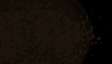
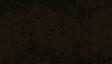
ui for menu in dungeon and hero skills

Changed region(s): [[0.6964, 0.0, 1.0, 1.0], [0.9911, 0.0, 1.0, 0.0625]]

diff --git a/src/components/UI/DungeonSkillsMenu/DungeonSkillsMenu.vue b/src/components/UI/DungeonSkillsMenu/DungeonSkillsMenu.vue
@@ -1,0 +1,200 @@
+<template>
+  <div class="dungeonUI__skillsMenuList">
+    <div class="dungeonUI__skillsMenuTabs">
+      <div class="dungeonUI__skillsMenuTabOption">
+        <span>Active Skills</span>
+      </div>
+      <div class="dungeonUI__skillsMenuTabOption">
+        <span>Pasive Skills</span>
+      </div>
+    </div>
+    <div class="dungeonUI__skillsMenuBody">
+      <div class="dungeonUI__skillsMenuItem">
+        <div class="dungeonUI__skillsMenuImg"></div>
+        <div class="dungeonUI__skillsMenuDescription">
+          <div class="dungeonUI__skillsMenuItemTitle">
+            <span>Black Fire</span>
+          </div>
+          <div class="dungeonUI__skillsMenuItemType">
+            <span>Magic Damage</span>
+          </div>
+          <div class="dungeonUI__skillsMenuItemDmg">
+            <span>10 Attk</span>
+            <span class="aff dark">Dark</span>
+            <span class="aff fire">Fire</span>
+          </div>
+        </div>
+      </div>
+      <div class="dungeonUI__skillsMenuItem --active">
+        <div class="dungeonUI__skillsMenuImg"></div>
+        <div class="dungeonUI__skillsMenuDescription">
+          <div class="dungeonUI__skillsMenuItemTitle">
+            <span>Black Fire</span>
+          </div>
+          <div class="dungeonUI__skillsMenuItemType">
+            <span>Magic Damage</span>
+          </div>
+          <div class="dungeonUI__skillsMenuItemDmg">
+            <span>10 Attk</span>
+            <span class="aff dark">Dark</span>
+            <span class="aff fire">Fire</span>
+          </div>
+        </div>
+      </div>
+      <div class="dungeonUI__skillsMenuItem">
+        <div class="dungeonUI__skillsMenuImg"></div>
+        <div class="dungeonUI__skillsMenuDescription">
+          <div class="dungeonUI__skillsMenuItemTitle">
+            <span>Black Fire</span>
+          </div>
+          <div class="dungeonUI__skillsMenuItemType">
+            <span>Magic Damage</span>
+          </div>
+          <div class="dungeonUI__skillsMenuItemDmg">
+            <span>10 Attk</span>
+            <span class="aff dark">Dark</span>
+            <span class="aff fire">Fire</span>
+          </div>
+        </div>
+      </div>
+      <div class="dungeonUI__skillsMenuItem">
+        <div class="dungeonUI__skillsMenuImg"></div>
+        <div class="dungeonUI__skillsMenuDescription">
+          <div class="dungeonUI__skillsMenuItemTitle">
+            <span>Black Fire</span>
+          </div>
+          <div class="dungeonUI__skillsMenuItemType">
+            <span>Magic Damage</span>
+          </div>
+          <div class="dungeonUI__skillsMenuItemDmg">
+            <span>10 Attk</span>
+            <span class="aff dark">Dark</span>
+            <span class="aff fire">Fire</span>
+          </div>
+        </div>
+      </div>
+      <div class="dungeonUI__skillsMenuItem">
+        <div class="dungeonUI__skillsMenuImg"></div>
+        <div class="dungeonUI__skillsMenuDescription">
+          <div class="dungeonUI__skillsMenuItemTitle">
+            <span>Black Fire</span>
+          </div>
+          <div class="dungeonUI__skillsMenuItemType">
+            <span>Magic Damage</span>
+          </div>
+          <div class="dungeonUI__skillsMenuItemDmg">
+            <span>10 Attk</span>
+            <span class="aff dark">Dark</span>
+            <span class="aff fire">Fire</span>
+          </div>
+        </div>
+      </div>
+      <div class="dungeonUI__skillsMenuItem">
+        <div class="dungeonUI__skillsMenuImg"></div>
+        <div class="dungeonUI__skillsMenuDescription">
+          <div class="dungeonUI__skillsMenuItemTitle">
+            <span>Black Fire</span>
+          </div>
+          <div class="dungeonUI__skillsMenuItemType">
+            <span>Magic Damage</span>
+          </div>
+          <div class="dungeonUI__skillsMenuItemDmg">
+            <span>10 Attk</span>
+            <span class="aff dark">Dark</span>
+            <span class="aff fire">Fire</span>
+          </div>
+        </div>
+      </div>
+    </div>
+  </div>
+</template>
+
+<script>
+export default {
+  name: "dungeonUI__skillsMenu",
+};
+</script>
+
+<style lang="sass" scoped>
+.dungeonUI__skillsMenuList
+  position: fixed
+  top: calc(1.5 * var(--tile-cell))
+  background-image: url("../../../assets/ui/dungeonUI__skillsMenuBg.png")
+  background-size: auto 100%
+  height: calc(100% - (var(--tile-cell) * 5.5))
+  z-index: 10
+  width: 100%
+.dungeonUI__skillsMenuTabs
+  background-image: url("../../../assets/ui/dungeonUI__skillsMenuTabLeft.png")
+  background-size: 100% 100%
+  height: var(--tile-cell)
+  width: 100%
+  display: flex
+  justify-content: center
+  &.--right
+    background-image: url("../../../assets/ui/dungeonUI__skillsMenuTabRight.png")
+    .dungeonUI__skillsMenuTabOption:first-child
+      opacity: 0.35
+    .dungeonUI__skillsMenuTabOption:last-child
+      opacity: 1
+.dungeonUI__skillsMenuBody
+  height: calc(100% - var(--tile-cell))
+  background-image: url("../../../assets/ui/dungeonUI__skillsMenuBorder.png")
+  width: 100%
+  background-size: 100%
+  padding: calc(var(--tile-cell) * 0.5)
+  box-sizing: border-box
+  overflow-y: scroll
+.dungeonUI__skillsMenuTabOption
+  display: flex
+  align-items: center
+  justify-content: center
+  color: #FFF
+  flex: 1
+  &:last-child
+    opacity: 0.35
+.dungeonUI__skillsMenuItem
+  display: flex
+  color: #C4C4C4
+  min-height: calc(var(--tile-cell) * 1)
+  border-bottom: var(--pixel-unit) solid #111111
+  padding-bottom: calc(var(--tile-cell) * .25)
+  margin-bottom: calc(var(--tile-cell) * .25)
+  &.--active
+    .dungeonUI__skillsMenuImg
+      box-shadow: inset 0 0 0 var(--pixel-unit) #805a29
+  &:last-child
+    border-bottom: none
+.dungeonUI__skillsMenuItemTitle
+  font-size: 22px
+.dungeonUI__skillsMenuImg
+  height: calc(var(--tile-cell) * 1.25)
+  min-width: calc(var(--tile-cell) * 1.25)
+  box-shadow: inset 0 0 0 var(--pixel-unit) #2c261f
+  background-image: url("../../../assets/skills/blackFire.png")
+  background-size: 100% 100%
+  margin-right: calc(var(--tile-cell) * .5)
+.dungeonUI__skillsMenuItemType
+  margin: 10px 0
+.dungeonUI__skillsMenuItemDmg
+  display: flex
+  font-size: 19px
+.dungeonUI__skillsMenuDescription
+  min-height: calc(var(--tile-cell) * 1.25)
+  display: flex
+  flex-direction: column
+  justify-content: flex-start
+  box-sizing: border-box
+.aff
+  margin-left: 10px
+  &:before 
+    content: ''
+    display: inline-block
+    width: 10px
+    height: 10px
+    margin-right: 10px
+    background-color: #363433
+  &.fire
+    &:before 
+      background-color: #FB3C00
+</style>

diff --git a/src/components/UI/DungeonUI.vue b/src/components/UI/DungeonUI.vue
@@ -31,6 +31,18 @@
         <div class="dungeonUI__moreMenu"></div>
       </div>
     </div>
+    <div class="dungeonUI__menuBottom">
+      <div class="dungeonUI__menuBottomLeft">
+        <div class="dungeonUI__retreatBtn"></div>
+        <div class="dungeonUI__settingBtn"></div>
+      </div>
+      <div class="dungeonUI__menuBottomRight">
+        <div class="dungeonUI__menuBottomBtn"><span>Stats</span></div>
+        <div class="dungeonUI__menuBottomBtn"><span>Inventory</span></div>
+        <div class="dungeonUI__menuBottomBtn"><span>Quest</span></div>
+        <div class="dungeonUI__menuBottomBtn"><span>Skills</span></div>
+      </div>
+    </div> 
     <div class="dungeonUI__contentBottom">
       <skills-list></skills-list>
       <div v-if="isMonsterTarget"
@@ -38,15 +50,16 @@
            @click="attack">
       </div>
       <div class="dungeonUI__controls">
-      <div v-for="direction in arrows"
-           :key="'arrow' + direction"
-           :class="'dungeonUI__controls-' + direction"
-           @click="move(direction)"
-      >
-      </div>
+        <div v-for="direction in arrows"
+             :key="'arrow' + direction"
+             :class="'dungeonUI__controls-' + direction"
+             @click="move(direction)"
+        >
+        </div>
       </div>
     </div>
     <inventory></inventory>
+    <DungeonSkillsMenu></DungeonSkillsMenu> 
   </div>
 </template>
 
@@ -54,6 +67,7 @@
 import Inventory from './Inventory'
 import LogQuest from './LogQuest'
 import SkillsList from './Skills/SkillList'
+import DungeonSkillsMenu from './DungeonSkillsMenu/DungeonSkillsMenu'
 
 
 export default {
@@ -61,7 +75,8 @@ export default {
   components: {
     Inventory,
     LogQuest,
-    SkillsList
+    SkillsList,
+    DungeonSkillsMenu
   },
   data () {
     return {
@@ -132,11 +147,10 @@ export default {
     background-image: url("../../assets/ui/dungeonUI__more.png")
     background-size: contain
     image-rendering: pixelated
-    &:active, &:focus
-      opacity: 0.5
-      transform: translateY(2px)
     &.dungeonUI__moreMenu
       background-image: url("../../assets/ui/dungeonUI__moreDown.png")
+      &:active, &:focus, .--active
+        background-image: url("../../assets/ui/dungeonUI__moreDownActive.png")
 .dungeonUI__current
   width: calc(5.5 * var(--tile-cell))
   height: calc(1.5 * var(--tile-cell))
@@ -221,4 +235,54 @@ export default {
   bottom: calc(var(--tile-cell) * .75)
   right: var(--tile-cell)
   z-index: 1
+.dungeonUI__menuBottom
+  position: fixed
+  display: flex
+  bottom: 0
+  left: 0
+  height: calc(var(--tile-cell) * 2.5)
+  background-image: url("../../assets/ui/dungeonUI__menuBg.png")
+  background-size: 100% 100%
+  width: 100%
+  z-index: 10
+.dungeonUI__menuBottomLeft
+  display: flex
+  height: 100%
+  flex-direction: column
+  width: calc(var(--tile-cell) * 2)
+.dungeonUI__retreatBtn, .dungeonUI__settingBtn
+  width: 100%
+  background-image: url("../../assets/ui/dungeonUI__retreat.png")
+  height: calc(var(--tile-cell) * 1.25)
+  background-size: 100% 100%
+.dungeonUI__settingBtn
+  background-image: url("../../assets/ui/dungeonUI__settings.png")
+.dungeonUI__menuBottomRight
+  display: flex
+  height: 100%
+  width: calc(var(--tile-cell) * 5)
+  flex-wrap: wrap
+.dungeonUI__menuBottomBtn
+  flex-basis: 50%
+  width: 100%
+  background-image: url("../../assets/ui/dungeonUI__menuOption.png")
+  height: calc(var(--tile-cell) * 1.25)
+  background-size: 100% 100% 
+  display: flex
+  align-items: center
+  justify-content: center
+  span
+    color: white
+    margin-top: -6px
+    font-size: 17px
+    text-shadow: 0 2px 0px black
+@media screen and (min-width: 800px)
+  .dungeonUI
+    right: 0
+    flex-direction: column
+    width: 336px
+    height: calc(100% - 72px)
+    padding-top: 25px
+    left: initial
+    box-sizing: border-box
 </style>

diff --git a/src/App.vue b/src/App.vue
@@ -34,6 +34,7 @@ body
   display: flex
   align-items: center
   justify-content: center
+  image-rendering: pixelated !important
   img
     image-rendering: pixelated !important
 .unselectable
@@ -51,5 +52,5 @@ body
   opacity: 0 !important
 @media (min-width: 900px)
   \:root
-    --tile-cell: 5vw
+    --tile-cell: 50px
 </style>

diff --git a/src/components/UI/LogQuest.vue b/src/components/UI/LogQuest.vue
@@ -92,4 +92,14 @@ export default {
   height: calc(10 * var(--pixel-unit))
   right: 10px
   top: calc(17 * var(--pixel-unit))
+
+@media screen and (min-width: 800px)
+  .questLog
+    height: 340px
+    background-size: 100% 100%
+  .feed
+    height: 100%
+    padding: 5px 15px
+    font-size: 15px
+    line-height: 17px
 </style>

diff --git a/src/components/Map/Map.vue b/src/components/Map/Map.vue
@@ -64,4 +64,10 @@ export default {
   margin-top: calc(1.5 * var(--tile-cell))
 .row
   display: flex
+@media screen and (min-width: 800px)
+  .map
+    overflow: hidden
+    --tile-cell: 10vh
+    --pixel-unit: 5px
+    margin-right: 336px;
 </style>

diff --git a/src/components/UI/TopBar.vue b/src/components/UI/TopBar.vue
@@ -48,4 +48,10 @@ export default {
   align-items: flex-start
   justify-content: flex-start
   z-index: 9
+@media screen and (min-width: 800px)
+  .topBar
+    width: 336px
+    as: 0
+    left: initial
+    right: 0
 </style>
